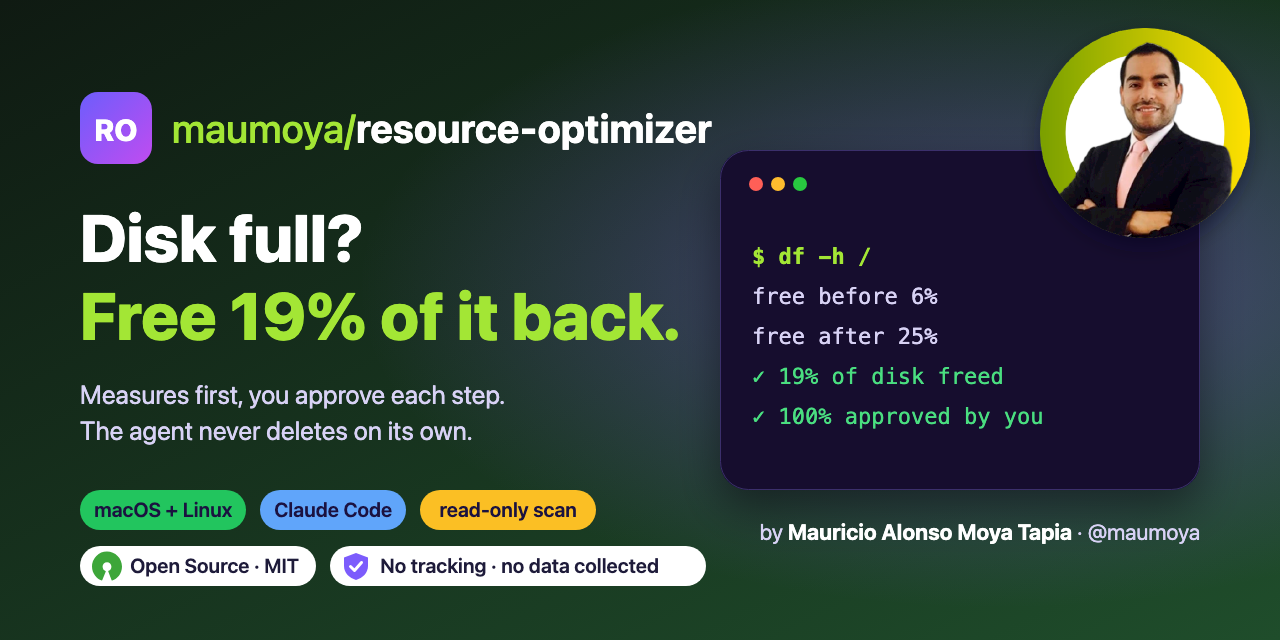
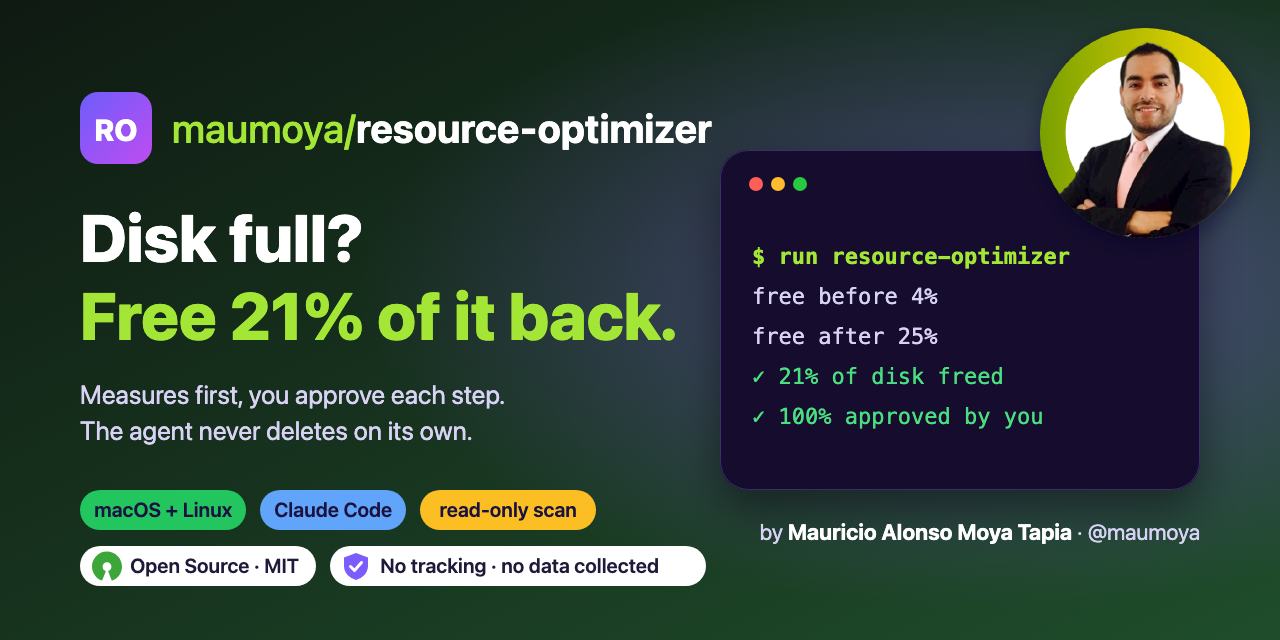
docs: latest real-machine numbers (21%, 103.8 GB) and animated before/after card

Changed region(s): [[0.1562, 0.4375, 0.5312, 0.5312], [0.5938, 0.375, 0.8438, 0.4375], [0.5938, 0.5625, 0.625, 0.5938]]

diff --git a/README.md b/README.md
@@ -1,10 +1,10 @@
 <p align="center">
-  <img src="assets/header.png" alt="resource-optimizer, a free open source Claude Code skill that frees disk space safely: measures first, you approve each step, freed 19% of a real Mac mini disk" width="100%">
+  <img src="assets/header.png" alt="resource-optimizer, a free open source Claude Code skill that frees disk space safely: measures first, you approve each step, freed 21% of a real Mac mini disk" width="100%">
 </p>
 
 <p align="center">
   <img src="https://img.shields.io/badge/Claude%20Code-skill%20%2B%20plugin-7c5cfc" alt="Claude Code skill and plugin">
-  <a href="#results-measured-2026-11-03"><img src="https://img.shields.io/badge/disk%20freed-19%25-2da44e" alt="Disk freed: 19 percent on a real Mac mini"></a>
+  <a href="#results-measured-2026-11-03"><img src="https://img.shields.io/badge/disk%20freed-21%25-2da44e" alt="Disk freed: 21 percent on a real Mac mini"></a>
   <a href="#results-measured-2026-11-03"><img src="https://img.shields.io/badge/deletes%20approved%20by%20you-100%25-2da44e" alt="Deletes approved by the user: 100 percent"></a>
   <img src="https://img.shields.io/badge/license-MIT-blue" alt="MIT license">
   <a href="https://opensource.org/license/mit"><img src="https://img.shields.io/badge/Open%20Source-OSI%20approved%20license-3DA639?logo=opensourceinitiative&logoColor=white" alt="Open Source: OSI-approved MIT license"></a>
@@ -70,22 +70,25 @@ Small sample, one synthetic folder, an LLM judge: a direction, not a guarantee. 
 
 ### Real machine
 
-<p align="center"><img src="assets/real-machine-card.svg" alt="19% of the disk freed on a real Mac mini: free space went from 6% to 25%, 86 of 460 GiB, every delete approved by the user" width="760"></p>
+<p align="center"><img src="assets/disk-cleanup.svg" alt="Animation: free space on a 494 GB Mac mini goes from 19.6 GB (4%) to 123.3 GB (25%) as the skill clears caches, temp files, unused models, old simulators, unused apps and Trash: 103.8 GB freed, 21% of the disk, every delete approved by the user" width="760"></p>
 
 First real run, a 16 GB Mac mini with a 494 GB disk (2026-11-03). Measured with `scripts/measure.sh` and `df -h /`;
 the user ran every command.
 
 | Step | What was cleared | Free space |
 |---|---|---|
-| Start | (macOS Storage showed 474.82 GB used) | 29 GiB |
+| Before (macOS Storage: 474.82 of 494.38 GB used) | | 19.6 GB |
+| First `df -h /` measurement | | 29 GiB |
 | Group A | npm, uv, pip and Homebrew caches; Xcode build output to the Trash | 36 GiB |
 | Group B | 4 unused local AI models, iOS simulators, old app leftovers to the Trash | 57 GiB |
 | Trash emptied by the user | | 84 GiB |
 | Orphan MLX models, an unused node_modules | | 92 GiB |
 | Old iOS simulator runtimes (27.0, 27.1; 27.2 kept for builds) | 14.8 GB | 109 GiB |
 | 5 unused apps and 2 duplicate apps to the Trash, Trash emptied by the user | | 115 GiB |
+| After (macOS Storage: 371.06 of 494.38 GB used) | | 123.3 GB |
 
-**19% of the disk freed** (86 of 460 GiB; free space went from 6% to 25%), measured with `df -h /`.
+**21% of the disk freed** (103.8 of 494.4 GB; free space went from 4% to 25%), from the macOS Storage numbers before and
+after, counting the whole run: learning what to clean, building the skill, and the automated checks. GiB rows are `df -h /`.
 **100% of deletes approved by the user:** every item was recommended by the skill in a ranked table, the user
 said yes, and every permanent step was the user's own command or password in a macOS dialog. The agent deleted 0 files on its own.
 

diff --git a/skills/resource-optimizer/references/where-space-goes.md b/skills/resource-optimizer/references/where-space-goes.md
@@ -46,7 +46,8 @@ Sizes vary. Measure each with `du -sh PATH`, one explicit path at a time.
 16 GB Mac mini, 29 → 92 GiB free in four user-run rounds: emptying the Trash (+23 GiB, nothing is freed until then),
 unused Ollama models (checked against code first), iOS simulators, models whose app was gone, and `node_modules` in
 pushed repos. Package caches gave about 7 GiB. A later round took it to 115 GiB: old simulator runtimes (14.8 GB) and
-unused or duplicate apps, then the Trash emptied again. Start with the Trash size, the model folders and simulator runtimes.
+unused or duplicate apps, then the Trash emptied again. Whole run by macOS Storage: 19.6 → 123.3 GB free (103.8 GB,
+21% of the disk). Start with the Trash size, the model folders and simulator runtimes.
 
 ## Unused apps
 

diff --git a/CHANGELOG.md b/CHANGELOG.md
@@ -1,5 +1,10 @@
 # Changelog
 
+## Unreleased
+
+- README: latest real-machine numbers (21% of the disk freed, 103.8 GB, free space 4% → 25%) and an animated
+  before/after card; header and cards updated to match.
+
 ## 0.3.0
 
 - GitHub Action `maumoya/resource-optimizer@v0.3.0`: read-only disk, RAM and load snapshot of the runner, with a
